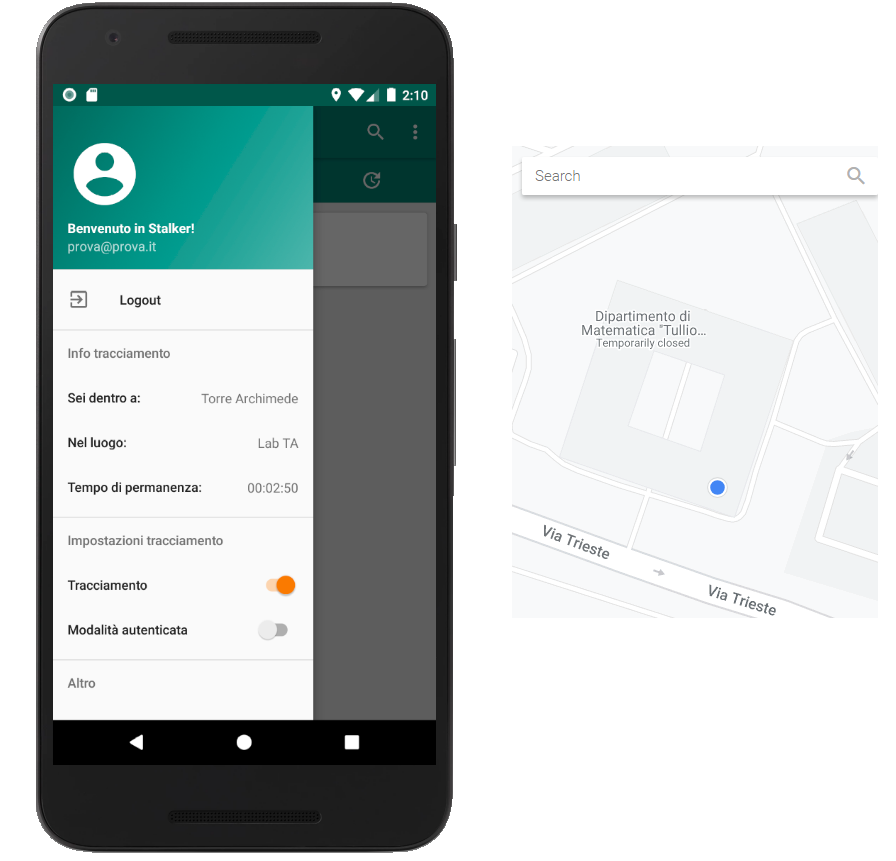
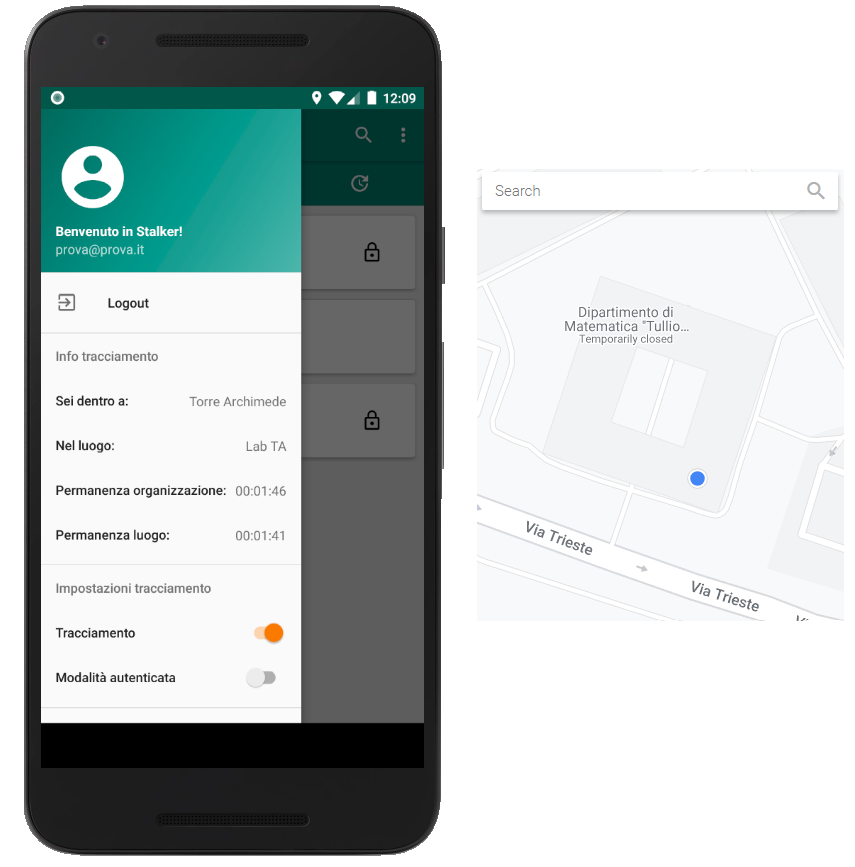
Terminato manuale utente APP

diff --git a/DocumentazioneEsterna/ManualeUtente/docs/app/funzionalita.md b/DocumentazioneEsterna/ManualeUtente/docs/app/funzionalita.md
@@ -57,7 +57,8 @@ Inoltre è presente una sezione denominata "info tracciamento" per visualizzare 
 
 - Un messaggio che indica all'utente se si trova fuori o all'interno di un'organizzazione. In quest'ultimo caso verrà indicato il nome dell'organizzazione in cui si è presenti;
 - Un messaggio che indica all'utente se si trova fuori o all'interno di un luogo. In quest'ultimo caso verrà indicato il nome del luogo in cui si è presenti;
-- Il tempo di permanenza dell'utente all'interno di un'organizzazione. Se l'utente si trova al di fuori di un'organizzazione, il tempo sarà indicato con "00:00:00".
+- Il tempo di permanenza dell'utente all'interno di un'organizzazione. Se l'utente si trova al di fuori di un'organizzazione, il tempo sarà indicato con "00:00:00";
+- Il tempo di permanenza dell'utente all'interno di un luogo. Se l'utente si trova al di fuori di un luogo, il tempo sarà indicato con "00:00:00".
 <div align="center">
 ![!Menu drawer](../Immagini/app/DrawerMenu.png)
 <figcaption align="center"> <em> Menù drawer </em> </figcaption>
@@ -105,7 +106,7 @@ L'utente può eseguire l'ordinamento alfabetico della lista delle organizzazioni
 
 <iframe width="720" src="https://www.youtube.com/embed/bB4VtZd_pLY" frameborder="0" style="height: 540px" allow="accelerometer; autoplay; encrypted-media; gyroscope; picture-in-picture" allowfullscreen></iframe>
 
-In alto a destra è situata la barra principale dell'applicazione e vi è una sezione di ricerca. Con essa è possibile eseguire ricerche testuali per filtrare e visualizzare la lista delle organizzazioni. Ci sono diverse modalità:
+Nella lista delle organizzazioni e nella lista MyStalker, in alto a destra vi è situata una sezione per la funzionalità di ricerca. Con essa è possibile eseguire ricerche testuali per filtrare e visualizzare una lista personalizzata delle organizzazioni. Ci sono diverse modalità:
 
 - Ricerca per nome (impostata come default);
 - Ricerca per città;
@@ -114,6 +115,16 @@ In alto a destra è situata la barra principale dell'applicazione e vi è una se
 <div align="center">
 ![!Ricerca](../Immagini/app/Ricerca.png)
 <figcaption align="center"> <em> Ricerca </em> </figcaption>
+</div>
+
+Anche nella sezione dedicata allo storico accessi vi è situato un comando che permetterà di accedere ad una distinta funzionalità di ricerca. Essa consentirà di:
+
+- ottenere la lista degli accessi riordinata per data in ordine crescente;
+- ottenere la lista degli accessi riordinata per data in ordine decrescente;
+- ottenere gli accessi presso un'organizzazione in un giorno specifico.
+<div align="center">
+![!Ricerca storico accessi](../Immagini/app/ricercaStoricoAccessi.png)
+<figcaption align="center"> <em> Ricerca storico accessi</em> </figcaption>
 </div>
 
 ## 2.1.10 Visualizzazione pagina organizzazione

diff --git a/DocumentazioneEsterna/ManualeUtente/docs/registromodifiche.md b/DocumentazioneEsterna/ManualeUtente/docs/registromodifiche.md
@@ -1,6 +1,7 @@
 # Registro delle modifiche
 Versione | Data | Nominativo | Ruolo | Verificatore | Descrizione
 ------------- | ------------- | ------------- | ------------- | ------------- | -------------
+0.10.0| 2020-06-17 | Enrico Salmaso | Progettista | Tommaso Azzalin | Aggiunta e verificata §2.1.2,§2.1.4,§2.1.7,§2.1.9,§2.1.11,§2.1.12,§2.1.13,§2.1.14,§2.1.16,§2.1.17,§2.1.18.
 0.9.0 | 2020-06-16 | Tommaso Azzalin | Progettista | Davide Lazzaro | Aggiunta e verificata §1.4.
 0.8.0 | 2020-06-16 | Federico Perin | Progettista | Davide Lazzaro | Aggiunto e verificato, §3.1.8, §3.1.9, §3.1.10, §3.1.11, §3.1.12, §3.1.13, §3.1.14, §3.1.15, §3.1.17.
 0.7.1 | 2020-06-15 | Federico Perin | Progettista | Davide Lazzaro | Aggiornamento e verifica, §3.1.1, §3.1.2, §3.1.3, §3.1.4, §3.1.5, §3.1.6, §3.1.7.     
